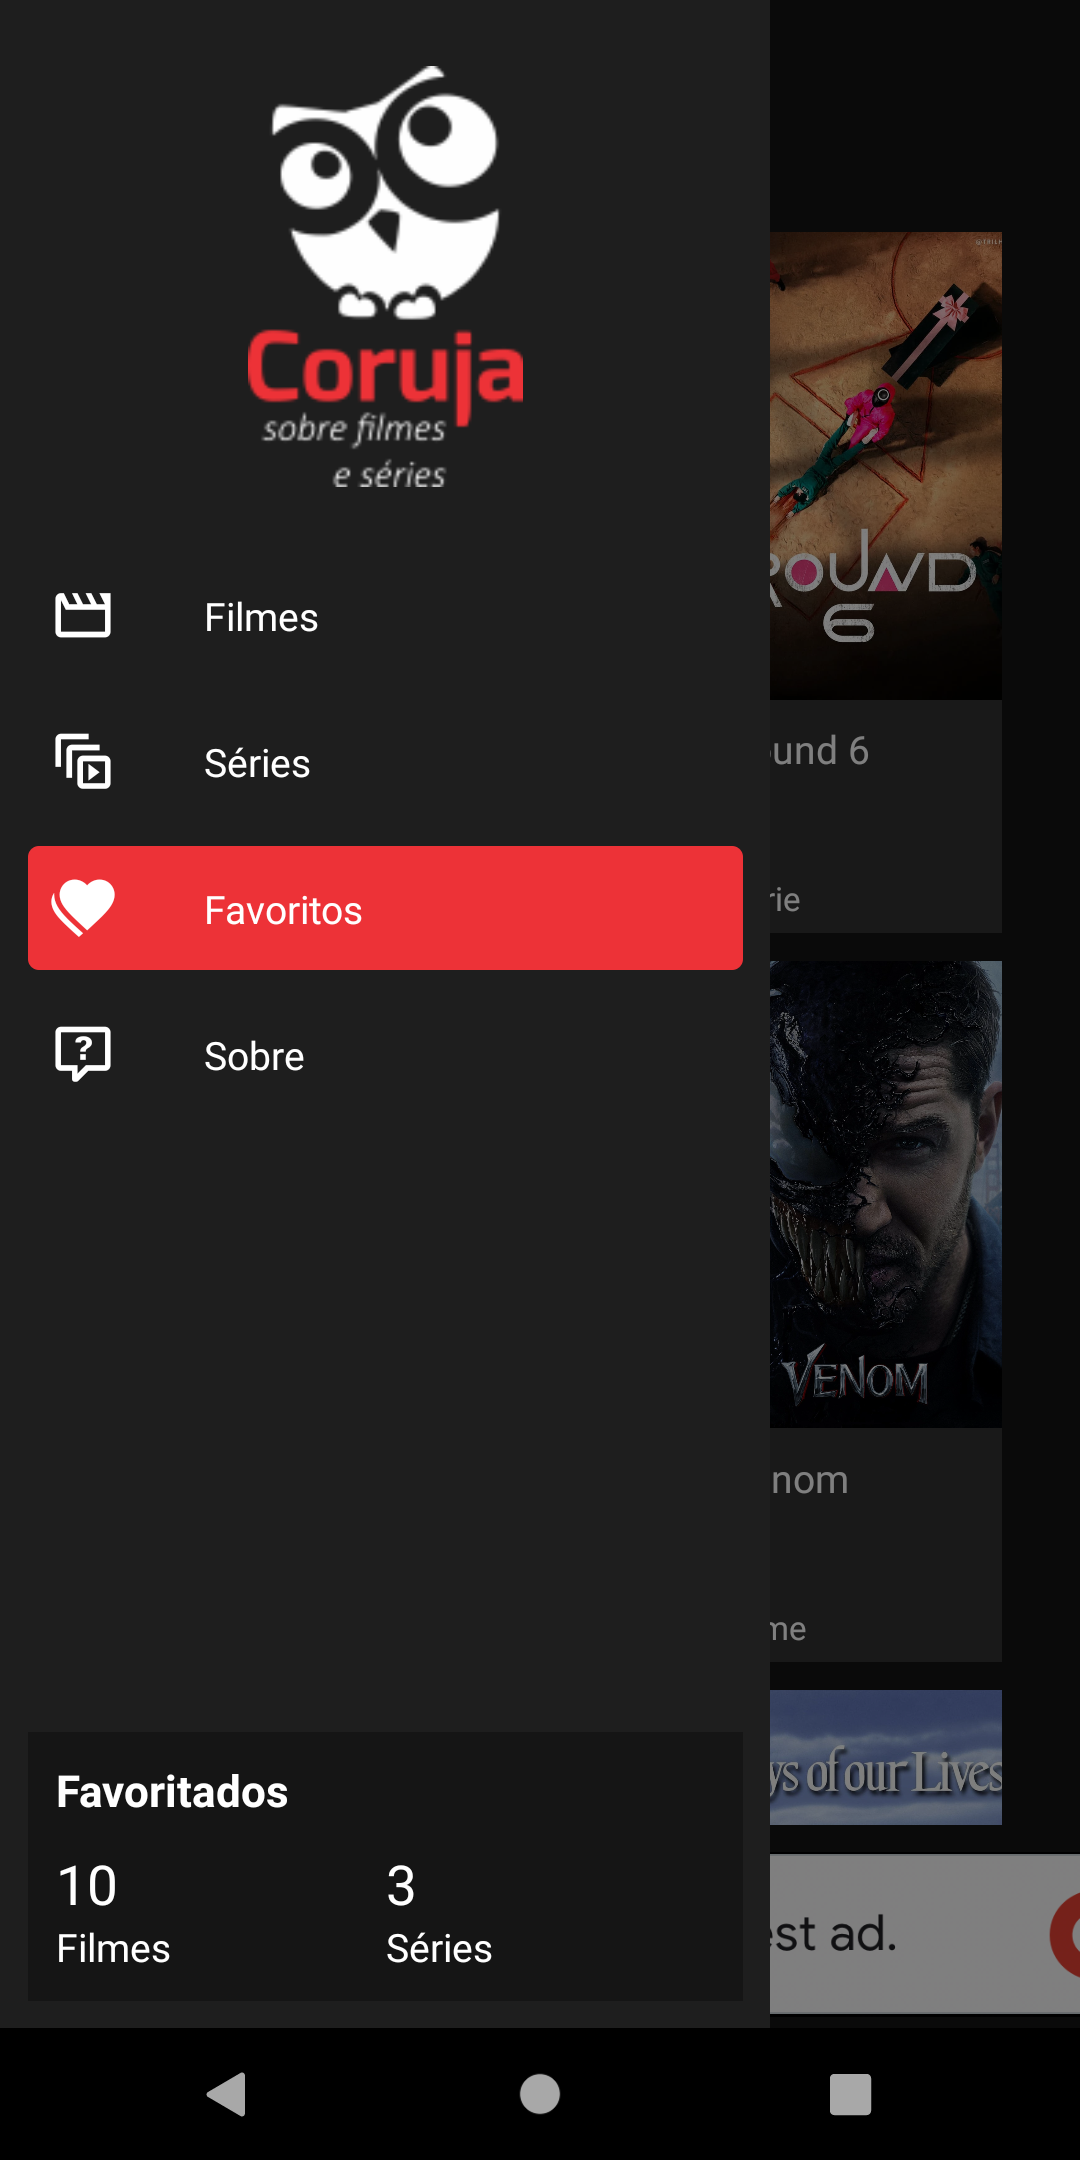
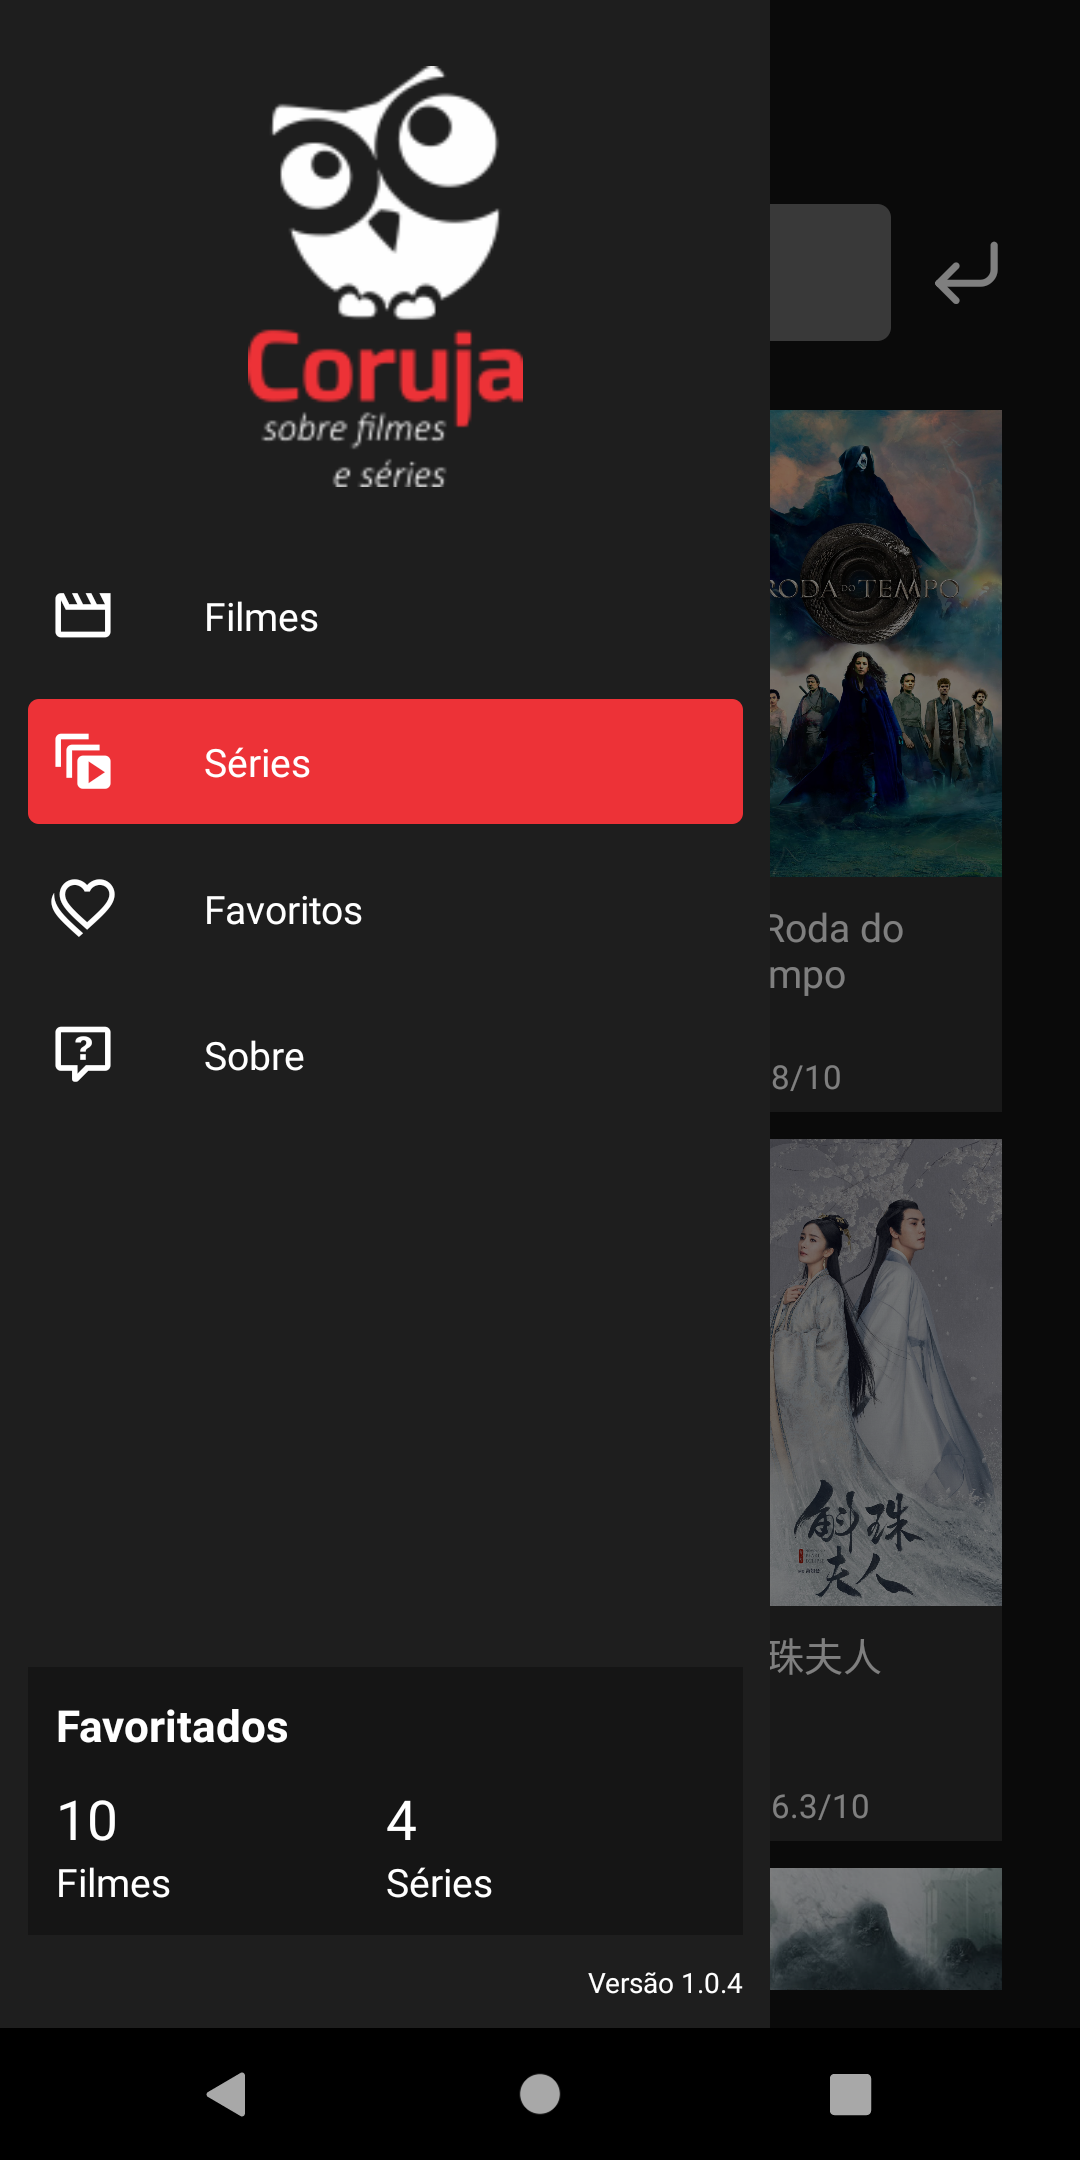
Remoção do ADMOD, Inclusão das temporadas nas séries e dos trailers para filmes e séries.

diff --git a/src/pages/Detail/index.js b/src/pages/Detail/index.js
@@ -37,6 +37,8 @@ import {
   deleteMovie,
   saveFavorites,
 } from '../../utils/storage';
+import YouTube from '../../components/YouTube';
+import Seasons from '../../components/Seasons';
 
 function Detail() {
   const navigation = useNavigation();
@@ -356,9 +358,30 @@ function Detail() {
               Nenhuma diretor(a) disponível neste momento.
             </Description>
           )}
+
+          {route.params?.type === 'tv' ? (
+            <SubTitle>
+              Temporada
+              {movieTMDB?.number_of_seasons > 1 ? 's' : ''}
+            </SubTitle>
+          ) : null}
+
+          {movieTMDB != null && movieTMDB?.seasons?.length > 0
+            ? movieTMDB?.seasons?.map((item) => (
+                <Seasons key={item.id.toString()} data={item} />
+              ))
+            : null}
+
+          <SubTitle>Trailer</SubTitle>
+          {movieRapid != null && movieRapid?.video?.length > 0 ? (
+            <YouTube data={movieRapid?.video} />
+          ) : (
+            <Description>Nenhum vídeo disponível neste momento.</Description>
+          )}
         </SafeAreaView>
       </ImageHeaderScrollView>
 
+      {/*
       <ContainerBannerAdMob>
         <AdMobBanner
           bannerSize="fullBanner"
@@ -368,6 +391,7 @@ function Detail() {
           onDidFailToReceiveAdWithError={(err) => console.log(err)}
         />
       </ContainerBannerAdMob>
+      */}
     </Container>
   );
 }

diff --git a/src/pages/Movies/index.js b/src/pages/Movies/index.js
@@ -120,15 +120,23 @@ function Movies() {
         />
       </ContainerList>
 
+      {/*
       <ContainerBannerAdMob>
         <AdMobBanner
           bannerSize="fullBanner"
           adUnitID={ADMOB_ID} // Test ID, Replace with your-admob-unit-id
           setTestDeviceIDAsync={false} // true or false
           servePersonalizedAds // true or false
-          onDidFailToReceiveAdWithError={(err) => console.log(err)}
+          onDidFailToReceiveAdWithError={(err) =>
+            console.log(`onDidFailToReceiveAdWithError: ${err}`)
+          }
+          onAdFailedToLoad={(msg) => console.log(`onAdFailedToLoad: ${msg}`)}
+          onAdMobDispatchAppEvent={(msg) =>
+            console.log(`onAdMobDispatchAppEvent: ${msg}`)
+          }
         />
       </ContainerBannerAdMob>
+       */}
     </Container>
   );
 }

diff --git a/src/routes/index.js b/src/routes/index.js
@@ -8,12 +8,12 @@ import {
 import { NavigationContainer } from '@react-navigation/native';
 import { MaterialCommunityIcons } from '@expo/vector-icons';
 import logo from '../assets/logo.png';
-// import Series from '../pages/Series';
 import StackRoutesMovies from './stackRoutesMovies';
 import StackRoutesSeries from './stackRoutesSeries';
 import StackRoutesFavorites from './stackRoutesFavorites';
 import About from '../pages/About';
 import FavoritesTotal from '../components/FavoritesTotal';
+import Version from '../components/Version';
 
 function Routes() {
   const Drawer = createDrawerNavigator();
@@ -32,6 +32,7 @@ function Routes() {
         <DrawerItemList {...props} />
       </DrawerContentScrollView>
       <FavoritesTotal />
+      <Version />
     </View>
   );
 

diff --git a/src/pages/About/index.js b/src/pages/About/index.js
@@ -34,7 +34,8 @@ function Series() {
         Video, entre outros.
       </Description>
 
-      <ContainerBannerAdMob>
+      {/*
+       <ContainerBannerAdMob>
         <AdMobBanner
           bannerSize="fullBanner"
           adUnitID={ADMOB_ID} // Test ID, Replace with your-admob-unit-id
@@ -43,6 +44,7 @@ function Series() {
           onDidFailToReceiveAdWithError={(err) => console.log(err)}
         />
       </ContainerBannerAdMob>
+       */}
     </Container>
   );
 }

diff --git a/src/components/Seasons/index.js b/src/components/Seasons/index.js
@@ -1,0 +1,16 @@
+import React from 'react';
+import { Container, Title } from './styles';
+
+function Seasons({ data }) {
+  return (
+    <Container>
+      <Title>
+        {`${data?.name} - ${data?.episode_count} ${
+          data?.episode_count > 1 ? 'Episódios' : 'Episódio'
+        }` ?? null}
+      </Title>
+    </Container>
+  );
+}
+
+export default Seasons;

diff --git a/src/pages/Favorites/index.js b/src/pages/Favorites/index.js
@@ -85,6 +85,7 @@ function Favorites() {
         />
       </ContainerList>
 
+      {/*
       <ContainerBannerAdMob>
         <AdMobBanner
           bannerSize="fullBanner"
@@ -94,6 +95,7 @@ function Favorites() {
           onDidFailToReceiveAdWithError={(err) => console.log(err)}
         />
       </ContainerBannerAdMob>
+      */}
     </Container>
   );
 }

diff --git a/src/pages/Search/index.js b/src/pages/Search/index.js
@@ -75,6 +75,7 @@ function Search() {
         <EmptySetCustomer />
       )}
 
+      {/*
       <ContainerBannerAdMob>
         <AdMobBanner
           bannerSize="fullBanner"
@@ -84,6 +85,7 @@ function Search() {
           onDidFailToReceiveAdWithError={(err) => console.log(err)}
         />
       </ContainerBannerAdMob>
+      */}
     </Container>
   );
 }

diff --git a/src/pages/Series/index.js b/src/pages/Series/index.js
@@ -120,6 +120,7 @@ function Series() {
         />
       </ContainerList>
 
+      {/*
       <ContainerBannerAdMob>
         <AdMobBanner
           bannerSize="fullBanner"
@@ -129,6 +130,7 @@ function Series() {
           onDidFailToReceiveAdWithError={(err) => console.log(err)}
         />
       </ContainerBannerAdMob>
+      */}
     </Container>
   );
 }

diff --git a/src/services/apiTheMovieDB.js b/src/services/apiTheMovieDB.js
@@ -5,6 +5,7 @@ import axios from 'axios';
 
 // URL FILMES EM CARTAZ
 // https://api.themoviedb.org/3/tv/popular?api_key=af05b7307a9e44da68d05ca1e10df707&language=pt-BR&page=1
+// https://api.themoviedb.org/3/tv/60735?api_key=af05b7307a9e44da68d05ca1e10df707&language=pt-BR&page=1
 
 export const keyTheMovieDB = 'af05b7307a9e44da68d05ca1e10df707';
 

diff --git a/src/components/YouTube/index.js b/src/components/YouTube/index.js
@@ -1,0 +1,13 @@
+import React from 'react';
+import YoutubePlayer from 'react-native-youtube-iframe';
+import { Container } from './styles';
+
+function YouTube({ data }) {
+  return (
+    <Container>
+      <YoutubePlayer height={300} play={false} videoId={data} />
+    </Container>
+  );
+}
+
+export default YouTube;

diff --git a/src/components/Version/index.js b/src/components/Version/index.js
@@ -1,0 +1,13 @@
+import React from 'react';
+import Constants from 'expo-constants';
+import { Container, TextVersion } from './styles';
+
+function Version() {
+  return (
+    <Container>
+      <TextVersion>Versão {Constants.manifest.version}</TextVersion>
+    </Container>
+  );
+}
+
+export default Version;

diff --git a/src/components/Version/styles.js b/src/components/Version/styles.js
@@ -1,0 +1,13 @@
+import styled from 'styled-components/native';
+
+export const Container = styled.View`
+  margin-left: 10px;
+  margin-right: 10px;
+  margin-bottom: 10px;
+`;
+
+export const TextVersion = styled.Text`
+  color: #fff;
+  text-align: right;
+  font-size: 10px;
+`;
